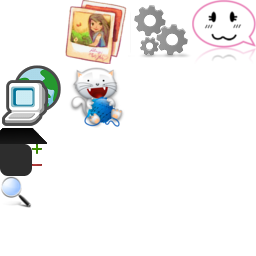
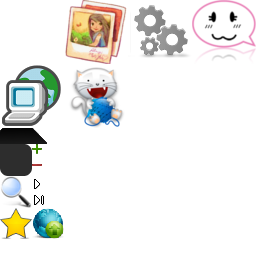
Add fade effect to GuiImageButton and prepare some buttons for the screenshot GUI.

Changed region(s): [[0.0, 0.6875, 0.25, 0.9375]]

diff --git a/src/main/java/net/blay09/mods/eirairc/client/gui/screenshot/GuiScreenshots.java b/src/main/java/net/blay09/mods/eirairc/client/gui/screenshot/GuiScreenshots.java
@@ -6,6 +6,7 @@ import net.blay09.mods.eirairc.client.gui.base.image.GuiFileImage;
 import net.blay09.mods.eirairc.client.gui.base.image.GuiImage;
 import net.blay09.mods.eirairc.client.screenshot.Screenshot;
 import net.blay09.mods.eirairc.client.screenshot.ScreenshotManager;
+import net.blay09.mods.eirairc.config.ScreenshotAction;
 import net.blay09.mods.eirairc.util.Utils;
 import net.minecraft.client.Minecraft;
 import net.minecraft.client.gui.*;
@@ -24,6 +25,17 @@ public class GuiScreenshots extends EiraGuiScreen implements GuiYesNoCallback {
 	private GuiButton btnOpenFolder;
 	private GuiAdvancedTextField txtName;
 
+	private GuiImageButton btnGoToFirst;
+	private GuiImageButton btnGoToPrevious;
+	private GuiImageButton btnGoToNext;
+	private GuiImageButton btnGoToLast;
+	private GuiImageButton btnZoom;
+	private GuiImageButton btnUpload;
+	private GuiImageButton btnClipboard;
+	private GuiImageButton btnFavorite;
+	private GuiImageButton btnDelete;
+
+	private boolean buttonsVisible;
 	private int currentIdx;
 	private Screenshot currentScreenshot;
 	private GuiImage imgPreview;
@@ -34,7 +46,7 @@ public class GuiScreenshots extends EiraGuiScreen implements GuiYesNoCallback {
 
 	public GuiScreenshots(GuiScreen parentScreen) {
 		super(parentScreen);
-		screenshotList = ScreenshotManager.getInstance().getScreenshots();
+		screenshotList = ScreenshotManager.getInstance().getScreenshots(); // TODO will be set by the category tabs
 	}
 
 	public void updateScreenshot() {
@@ -69,6 +81,9 @@ public class GuiScreenshots extends EiraGuiScreen implements GuiYesNoCallback {
 		txtName = new GuiAdvancedTextField(fontRendererObj, width / 2 - 100, topY + 152, 200, 15);
 		textFieldList.add(txtName);
 
+		// TODO initialize buttons
+//		btnGoToFirst = new GuiImageButton();
+
 		updateScreenshot();
 
 		imgX = leftX + 2;
@@ -77,16 +92,35 @@ public class GuiScreenshots extends EiraGuiScreen implements GuiYesNoCallback {
 
 	@Override
 	public void actionPerformed(GuiButton button) {
-		if(button == btnOpenFolder) {
+		if(button == btnGoToFirst) {
+			currentIdx = 0;
+			updateScreenshot();
+		} else if(button == btnGoToPrevious) {
+			if(currentIdx > 0) {
+				currentIdx--;
+				updateScreenshot();
+			}
+		} else if(button == btnGoToNext) {
+			if(currentIdx < screenshotList.size() - 1) {
+				currentIdx++;
+				updateScreenshot();
+			}
+		} else if(button == btnGoToLast) {
+			currentIdx = screenshotList.size() - 1;
+			updateScreenshot();
+		} else if(button == btnOpenFolder) {
 			Utils.openDirectory(new File(mc.mcDataDir, "screenshots"));
+		} else if(button == btnDelete) {
+			mc.displayGuiScreen(new GuiYesNo(this, "Do you really want to delete this screenshot?", "This can't be undone, so be careful!", currentIdx));
+		} else if(button == btnClipboard) {
+			Utils.setClipboardString(currentScreenshot.getUploadURL());
+		} else if(button == btnUpload) {
+			ScreenshotManager.getInstance().uploadScreenshot(currentScreenshot, ScreenshotAction.None);
+		} else if(button == btnFavorite) {
+			// TODO implement screenshot favorites
+		} else if(button == btnZoom) {
+			mc.displayGuiScreen(new GuiScreenshotBigPreview(this, imgPreview));
 		}
-//		} else if(button == btnDelete) {
-//			mc.displayGuiScreen(new GuiYesNo(this, "Do you really want to delete this screenshot?", "This can't be undone, so be careful!", currentIdx));
-//		} else if(button == btnClipboard) {
-//			Utils.setClipboardString(currentScreenshot.getUploadURL());
-//		} else if(button == btnUpload) {
-//			ScreenshotManager.getInstance().uploadScreenshot(currentScreenshot, ScreenshotAction.None);
-//		}
 	}
 
 	@Override
@@ -102,12 +136,31 @@ public class GuiScreenshots extends EiraGuiScreen implements GuiYesNoCallback {
 		drawLightBackground(menuX, menuY, menuWidth, menuHeight);
 
 		if(imgPreview != null) {
-			imgPreview.draw(imgX, imgY, imgWidth, imgHeight, zLevel);
+			// Fade all image buttons in/out on hover of image
+			if(mouseX >= imgX && mouseX < imgX + imgWidth && mouseY >= imgY && mouseY < imgY + imgHeight) {
+				if(!buttonsVisible) {
+					for (int i = 0; i < buttonList.size(); i++) {
+						GuiButton button = (GuiButton) buttonList.get(i);
+						if (button instanceof GuiImageButton) {
+							((GuiImageButton) button).setFadeMode(1);
+						}
+					}
+					buttonsVisible = true;
+				}
+			} else {
+				if(buttonsVisible) {
+					for (int i = 0; i < buttonList.size(); i++) {
+						GuiButton button = (GuiButton) buttonList.get(i);
+						if (button instanceof GuiImageButton) {
+							((GuiImageButton) button).setFadeMode(-1);
+						}
+					}
+					buttonsVisible = false;
+				}
+			}
 
-//			if(mouseX >= imgX && mouseX < imgX + imgWidth && mouseY >= imgY && mouseY < imgY + imgHeight) {
-//				mc.renderEngine.bindTexture(EiraGui.tab);
-//				GuiUtils.drawTexturedModalRect(imgX + imgWidth - 32, imgY + imgHeight - 32, 0, 48, 32, 32, zLevel);
-//			}
+			// Render the screenshot preview image
+			imgPreview.draw(imgX, imgY, imgWidth, imgHeight, zLevel);
 		}
 
 		super.drawScreen(mouseX, mouseY, par3);

diff --git a/src/main/java/net/blay09/mods/eirairc/client/gui/base/GuiImageButton.java b/src/main/java/net/blay09/mods/eirairc/client/gui/base/GuiImageButton.java
@@ -11,9 +11,13 @@ import org.lwjgl.opengl.GL11;
  */
 public class GuiImageButton extends GuiButton {
 
+	private static final float FADE_PER_FRAME = 0.01f;
+
 	private final ResourceLocation res;
 	private final int texCoordX;
 	private final int texCoordY;
+	private float alphaFade = 1f;
+	private int fadeMode;
 
 	public GuiImageButton(int id, int xPos, int yPos, ResourceLocation res, int texCoordX, int texCoordY, int texWidth, int texHeight) {
 		super(id, xPos, yPos, "");
@@ -24,18 +28,35 @@ public class GuiImageButton extends GuiButton {
 		height = texHeight;
 	}
 
+	public void setFadeMode(int fadeMode) {
+		this.fadeMode = fadeMode;
+	}
+
 	@Override
 	public void drawButton(Minecraft mc, int mouseX, int mouseY) {
 		if(this.visible) {
+			// Fade button alpha in or out
+			if(fadeMode > 0) {
+				alphaFade = Math.min(1f, alphaFade + FADE_PER_FRAME);
+				if(alphaFade == 1f) {
+					fadeMode = 0;
+				}
+			} else if(fadeMode < 0) {
+				alphaFade = Math.max(0f, alphaFade - FADE_PER_FRAME);
+				if(alphaFade == 0f) {
+					fadeMode = 0;
+				}
+			}
+			// Render the button with fade alpha and hover effect
 			mc.renderEngine.bindTexture(res);
 			if(enabled) {
 				if (mouseX >= xPosition && mouseY >= yPosition && mouseX < xPosition + width && mouseY < yPosition + height) {
-					GL11.glColor4f(1f, 1f, 1f, 1f);
+					GL11.glColor4f(1f, 1f, 1f, 1f * alphaFade);
 				} else {
-					GL11.glColor4f(1f, 1f, 1f, 0.5f);
+					GL11.glColor4f(1f, 1f, 1f, 0.5f * alphaFade);
 				}
 			} else {
-				GL11.glColor4f(1f, 1f, 1f, 0.25f);
+				GL11.glColor4f(1f, 1f, 1f, 0.25f * alphaFade);
 			}
 			GuiUtils.drawTexturedModalRect(xPosition, yPosition, texCoordX, texCoordY, width, height, this.zLevel);
 		}
